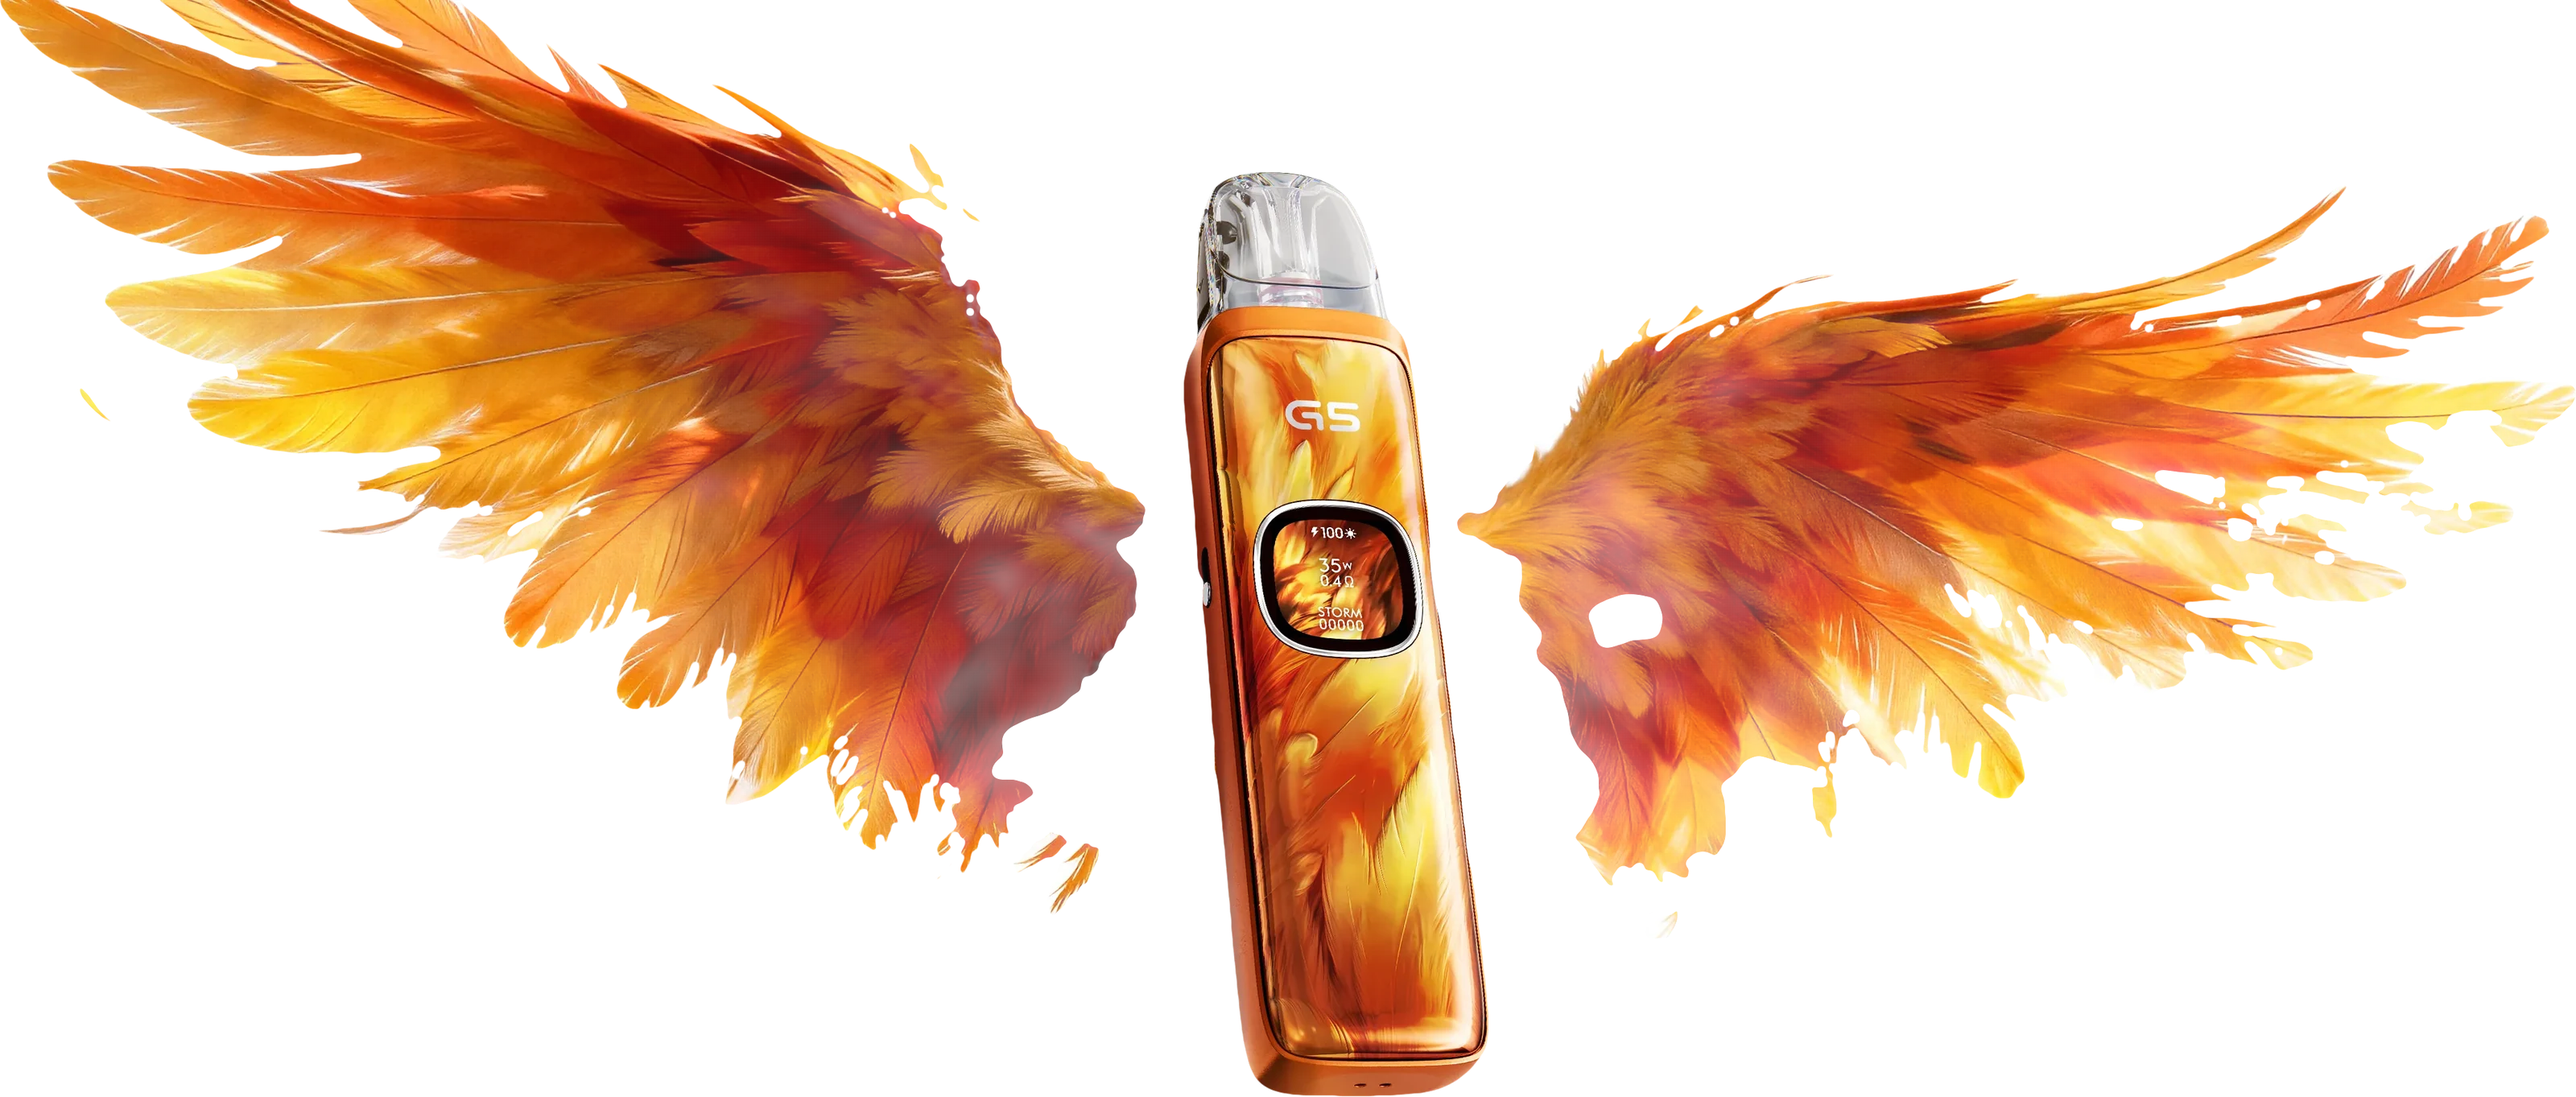
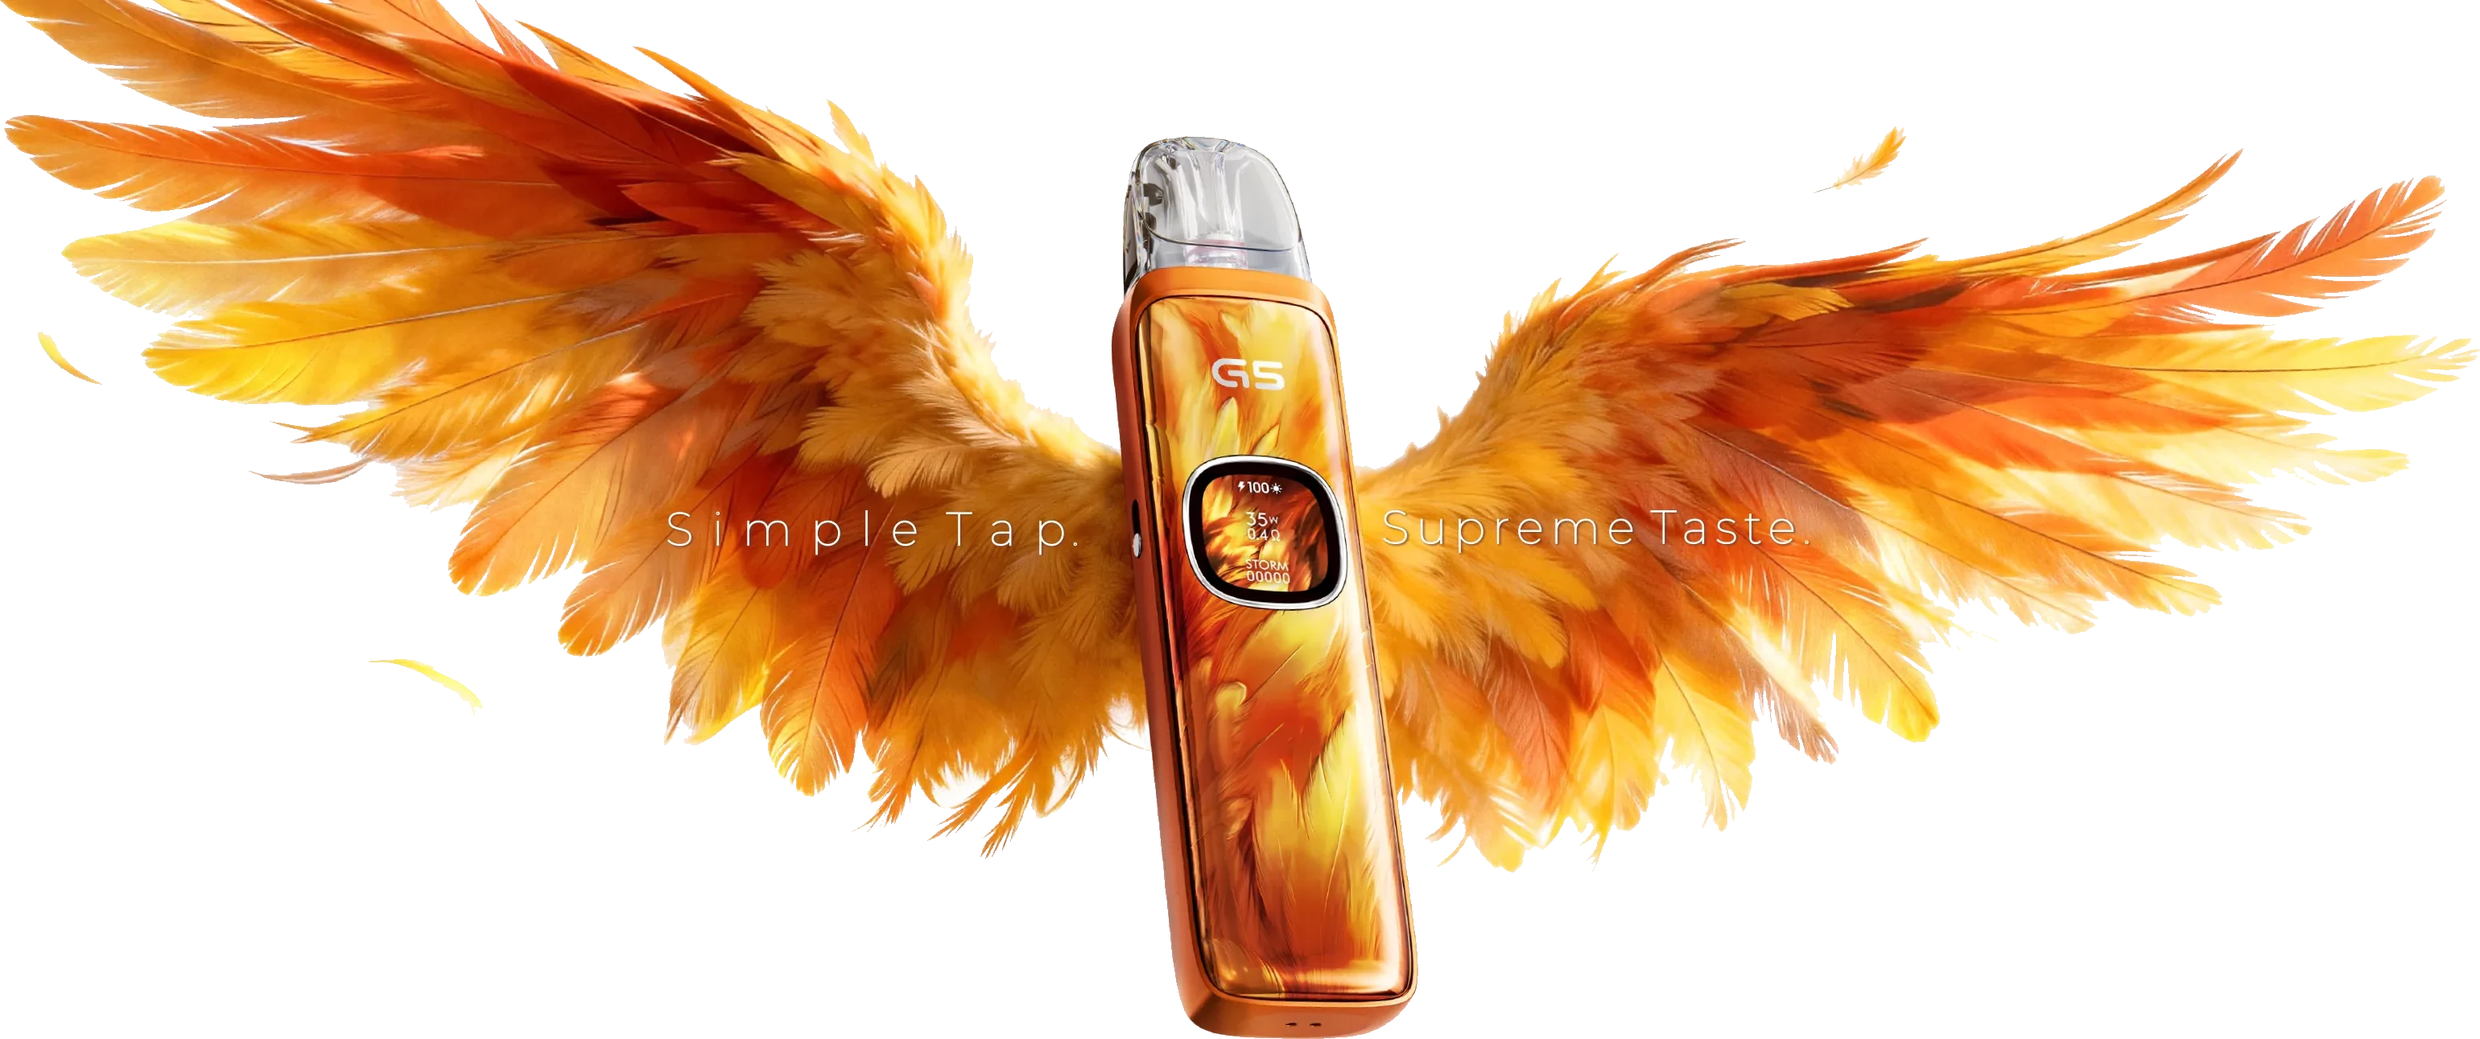
fix: G5 cover = the existing cut-out without its word row (the remover cut left holes in the wings)

diff --git a/src/data/products/uwell.ts b/src/data/products/uwell.ts
@@ -129,9 +129,9 @@ export const uwellProducts: Product[] = [
     // Owner 02/10 "ทำแบบ Uwell": the UWELL-style stage layout (designer option A); colours right after the screen block.
     storyLayout: "stage",
     storyColoursAfter: "display-x-ui",
-    // G5 template round batch 5 (owner 03/10: "กรอบดำ" + white bits in the CALIBURN word): UWELL's pic1.webp (wings on
-    // white) cut by Higgsfield's remover, un-mixed from the white and choked (_incoming/g5-template/b5/) — floats, no text baked in
-    storyCover: { src: "/assets/products/caliburn-g5/story-cover-v2.webp", alt: "Official UWELL Caliburn G5 campaign image, the device between orange wings", sourceName: "UWELL", sourceUrl: "https://www.myuwell.com/caliburn/caliburn-g5", width: 3200, height: 1363, transparent: true },
+    // G5 template round batch 5 (owner 03/10: "กรอบดำ" + white bits in the CALIBURN word): hero.webp is already cut out —
+    // the black box was the poster card; story-cover-v2 = hero.webp without the CALIBURN G5 word row, floating (`transparent`)
+    storyCover: { src: "/assets/products/caliburn-g5/story-cover-v2.webp", alt: "Official UWELL Caliburn G5 campaign image, \"Simple Tap. Supreme Taste.\"", sourceName: "UWELL", sourceUrl: "https://www.myuwell.com/caliburn/caliburn-g5", width: 3081, height: 1291, transparent: true },
     colorVariants: [
       {
         id: "mystic-forest",
